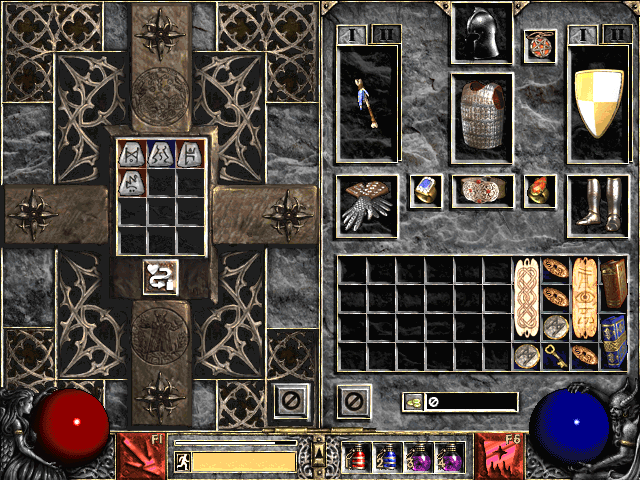
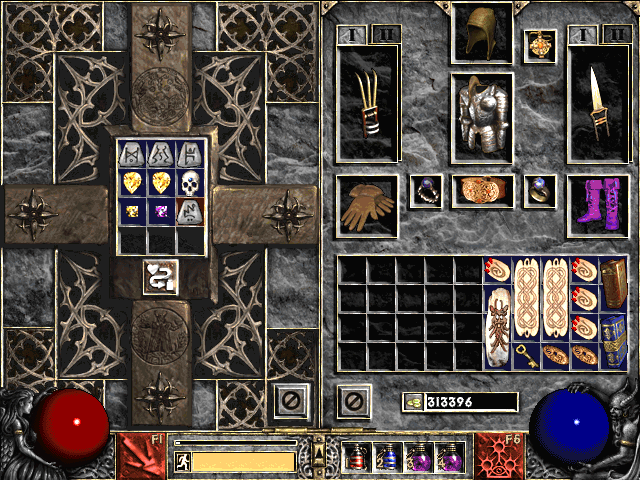
feat(runes): Extended Rune generation to Gems and Skulls.

diff --git a/wiki/wiki_text_horadric.html b/wiki/wiki_text_horadric.html
@@ -226,6 +226,5 @@ These three bytes range from [Bit 76:Bit 100]. This means a bit shift of 4 if yo
 </p>
 <figure>
   <img src="https://github.com/kochsoft/diablo2/blob/main/wiki/crafted_runes.png" alt="Jah, Ith, Ber, and, for show, a Zod rune." class="center_img"><br />
-  <figcaption>Fig.6 - Jah, Ith, Ber, and, for show, a Zod rune. All from Horazon's workshop. Sadly however, the character who received them is too
-whimpy to apply them to anything. However, enabling Hell capability would remedy this for any of these, but the Zod rune.</figcaption>
+  <figcaption>Fig.6 - Jah, Ith, Ber, some gems, a skull, and, for show, a Zod rune. All from Horazon's workshop.</figcaption>
 </figure>

diff --git a/src/horazons_folly.py b/src/horazons_folly.py
@@ -77,20 +77,116 @@ class E_Rune(Enum):
     ER_CHAM = 32
     ER_ZOD = 33
 
+    ER_TOPAZ_CHIPPED = 40
+    ER_AMETHYST_CHIPPED = 41
+    ER_SAPHIRE_CHIPPED = 42
+    ER_RUBY_CHIPPED = 43
+    ER_EMERALD_CHIPPED = 44
+    ER_DIAMOND_CHIPPED = 45
+    ER_SKULL_CHIPPED = 46
+
+    ER_TOPAZ_FLAWED = 50
+    ER_AMETHYST_FLAWED = 51
+    ER_SAPHIRE_FLAWED = 52
+    ER_RUBY_FLAWED = 53
+    ER_EMERALD_FLAWED = 54
+    ER_DIAMOND_FLAWED = 55
+    ER_SKULL_FLAWED = 56
+
+    ER_TOPAZ = 60
+    ER_AMETHYST = 61
+    ER_SAPHIRE = 62
+    ER_RUBY = 63
+    ER_EMERALD = 64
+    ER_DIAMOND = 65
+    ER_SKULL = 66
+
+    ER_TOPAZ_FLAWLESS = 70
+    ER_AMETHYST_FLAWLESS = 71
+    ER_SAPHIRE_FLAWLESS = 72
+    ER_RUBY_FLAWLESS = 73
+    ER_EMERALD_FLAWLESS = 74
+    ER_DIAMOND_FLAWLESS = 75
+    ER_SKULL_FLAWLESS = 76
+
+    ER_TOPAZ_PERFECT = 80
+    ER_AMETHYST_PERFECT = 81
+    ER_SAPHIRE_PERFECT = 82
+    ER_RUBY_PERFECT = 83
+    ER_EMERALD_PERFECT = 84
+    ER_DIAMOND_PERFECT = 85
+    ER_SKULL_PERFECT = 86
+
     @property
     def type_code(self) -> Optional[str]:
-        if not (1 <= self.value <= 33):
+        if self.value == 0:
             return None
-        return "r{0:02d}".format(self.value)
+        if 1 <= self.value <= 33:
+            return "r{0:02d}".format(self.value)
+
+        gem_reference = E_Rune(self.value % 10 + 60)
+        quality = floor(self.value / 10) - 4
+        if quality < 0:
+            quality = 0
+        elif quality > 4:
+            quality = 4
+        if gem_reference == E_Rune.ER_TOPAZ:
+            return ['gcy', 'gfy', 'gsy', 'gly', 'gpy'][quality]
+        elif gem_reference == E_Rune.ER_AMETHYST:
+            return ['gcv', 'gfv', 'gsv', 'gzv', 'gpv'][quality]
+        elif gem_reference == E_Rune.ER_SAPHIRE:
+            return ['gcb', 'gfb', 'gsb', 'glb', 'gpb'][quality]
+        elif gem_reference == E_Rune.ER_RUBY:
+            return ['gcr', 'gfr', 'gsr', 'glr', 'gpr'][quality]
+        elif gem_reference == E_Rune.ER_EMERALD:
+            return ['gcg', 'gfg', 'gsg', 'glg', 'gpg'][quality]
+        elif gem_reference == E_Rune.ER_DIAMOND:
+            return ['gcw', 'gfw', 'gsw', 'glw', 'gpw'][quality]
+        elif gem_reference == E_Rune.ER_SKULL:
+            return ['skc', 'skf', 'sku', 'skl', 'skz'][quality]
+        else:
+            return None
 
     @staticmethod
     def from_name(name: str) -> Optional[E_Rune]:
+        """:param name: Simply by rune name for runes Else /^[tasredb][0-4]$/ for gems and skulls ('b'one, get it?),
+          the number denoting the quality from 0: chipped to 4: perfect."""
+        # > Grand case 1: Gems and Bones (i.e., Skulls). -------------
+        m = re.findall("^([tasredb])([0-4])$", name.lower())
+        if m:
+            tp = m[0][0]
+            quality = floor(int(m[0][1]))
+            if quality < 0:
+                quality = 0
+            elif quality > 4:
+                quality = 4
+            val = 40 + quality * 10
+            if tp == 't':
+                val += 0
+            elif tp == 'a':
+                val += 1
+            elif tp == 's':
+                val += 2
+            elif tp == 'r':
+                val += 3
+            elif tp == 'e':
+                val += 4
+            elif tp == 'd':
+                val += 5
+            elif tp == 'b':
+                val += 6
+            else:
+                return None
+            return E_Rune(val)
+        # < ----------------------------------------------------------
+        # > Runes. ---------------------------------------------------
         try:
             candidate = E_Rune[f"ER_{name}".upper()]
         except KeyError:
             _log.warning(f"Invalid rune name '{name}' encountered.")
             return None
         return candidate if 1 <= candidate.value <= 33  else None
+    # < --------------------------------------------------------------
 
     @staticmethod
     def sample_byte_code_rune_el() -> bytes:
@@ -785,19 +881,19 @@ class Item:
             '10101100' == '5', '01101100' == '6', '11101100' == '7', '00011100' == '8', '10011100' == '9'.]"""
         if isinstance(name, str):
             try:
-                name = E_Rune[name]
+                name = E_Rune.from_name(name)
             except KeyError:
                 _log.warning(f"Invalid rune name string: '{name}'. Returning None.")
                 return None
         if name.type_code is None:
             _log.warning(f"Invalid rune designation: '{name}'. Returning None.")
         rune_el = E_Rune.sample_byte_code_rune_el()  # type: bytes
-        rune = Item(rune_el, index_start=0, index_end=len(rune_el))
-        rune.stash_type = stash_type
-        rune.col = col
-        rune.row = row
-        rune.type_code = name.type_code
-        return rune
+        item_rune = Item(rune_el, index_start=0, index_end=len(rune_el))
+        item_rune.stash_type = stash_type
+        item_rune.col = col
+        item_rune.row = row
+        item_rune.type_code = name.type_code
+        return item_rune
 
     def __str__(self) -> str:
         if self.is_analytical:

diff --git a/src/horadric_exchange.py b/src/horadric_exchange.py
@@ -420,7 +420,7 @@ February 2025, Markus-H. Koch ( https://github.com/kochsoft/diablo2 )"""
         self.ta_insert_character_data(self.horadric_horazon, data.pfname, self.ta_hero)
 
     def runic_cube(self, text_runic_cube: str):
-        runes = list(filter(lambda x: x is not None, [E_Rune.from_name(w) for w in re.findall('([a-zA-Z]+)', text_runic_cube)]))
+        runes = list(filter(lambda x: x is not None, [E_Rune.from_name(w) for w in re.findall('([a-zA-Z0-9]+)', text_runic_cube)]))
         if not runes:
             tk.messagebox.showinfo("Runic Cube", "Use a comma-separated list of up to 12 rune names to replace your "
                                                  "Horadric Cube content with that set of runes. E.g., 'ral, ort, tal'.")
@@ -515,8 +515,8 @@ February 2025, Markus-H. Koch ( https://github.com/kochsoft/diablo2 )"""
                 self.button_enable_nightmare.config(state='disabled')
             if data.progression >= 10:
                 self.button_enable_hell.config(state='disabled')
-            self.entry_runic_cube.delete(0, tk.END)
-            self.entry_runic_cube.insert(0, 'ort,sol')
+            #self.entry_runic_cube.delete(0, tk.END)
+            #self.entry_runic_cube.insert(0, 'ort,sol')
             self.entry_boost_skills.delete(0, tk.END)
             self.entry_boost_skills.insert(0, '0')
             self.entry_boost_attributes.delete(0, tk.END)
@@ -671,12 +671,12 @@ Beware!"""
         Hovertip(self.button_enable_hell, 'If still in normal or nightmare mode. Raise your character level to 68 (if necessary) and fill his stash with gold.')
 
         var_runic_cube = tk.StringVar()
-        var_runic_cube.set("ort, sol")
+        var_runic_cube.set("ort, sol, t4, t4, b4, t0, a0")
         self.entry_runic_cube = tk.Entry(self.tab2, textvariable=var_runic_cube)
         self.entry_runic_cube.grid(row=5, column=1, columnspan=4, sticky='ew')
         self.button_runic_cube = tk.Button(self.tab2, text='Runes to Cube', command=lambda: self.runic_cube(var_runic_cube.get()), width=10, height=1, bg='#009999')
         self.button_runic_cube.grid(row=5, column=0)
-        Hovertip(self.button_runic_cube, 'Write a comma-separated list of up to 12 rune names and click this. Will replace your cube contents with these runes.')
+        Hovertip(self.button_runic_cube, 'Write a comma-separated list of up to 12 rune names and/or gem codes, /^[tasredb][0-4]$/ (bone=skull), and click this. Will replace your cube contents with these socketables.')
 
         var_skills = tk.IntVar()
         self.entry_boost_skills = tk.Entry(self.tab2, textvariable=var_skills)
